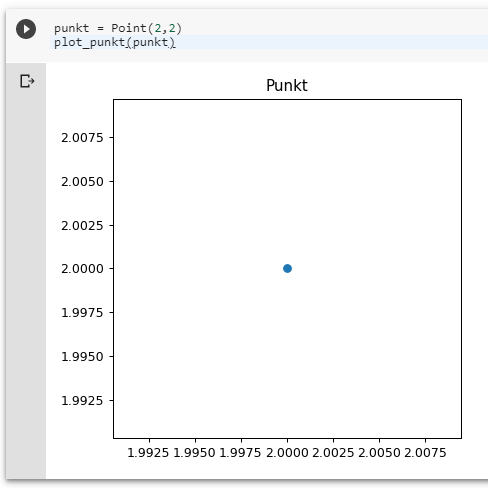
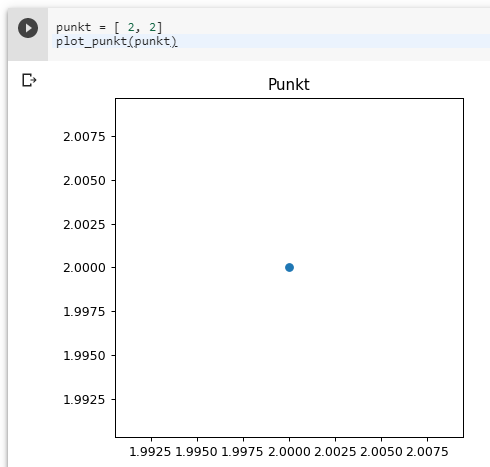
Små rettelser og nytt bilde

Changed region(s): [[0.0, 0.03, 1.0, 1.0], [0.584, 0.5396, 0.6148, 0.5996]]

diff --git a/Pythonkurs.md b/Pythonkurs.md
@@ -158,7 +158,7 @@ Et forsøk kan for eksempel være:
 
 [SyntaxError]:./images/Error.JPG
 
-Kommer direkte med en knapp til _Stack Overflow_ (fungerer ikke som den skal akkurat nå?)
+Kommer direkte med en knapp til _Stack Overflow_ (Gjør Googlesøk på feilen)
 
 Enkelt vist ved første resultat (Google Syntax Erroren). Slike feilmedlinger vil komme dersom cellen krasjer av en eller annen grunn. Det betyr at en tom output ikke nødvendigvis betyr at koden ikke fungerte.
 
@@ -862,6 +862,8 @@ print(sum)
 </p>
 </details>
 
+---
+
 <div style="page-break-after: always;"></div>
 
 ## Geometri
@@ -932,7 +934,7 @@ def plot_polygon(linje):
 Et punkt har en x-koordinat og en y-koordinat. Vi kan dermed se på et punkt som en liste med to elementer
 
 ```python
-punkt = [2, 2]
+punkt = [ 2, 2]
 ```
 
 Vi har lagd klar noen funksjoner for å enkelt plotte dataene.
@@ -945,7 +947,7 @@ Du vil nå få opp en graf tilsvarende denne:
 
 ![Punkt]
 
-[Punkt]: ./images/punkt.png
+[Punkt]: ./images/punkt.PNG
 
 Det er mulig å legge inn flere punkt i samme graf. Å bruke `plot_punkt()` for hvert enkelt punkt vil resultere i en advarsel, og er veldig lite praktisk.
 
@@ -1000,8 +1002,8 @@ plot_punkter(punkter)
 Finn distansen mellom punktene
 
 ```python
-Punkt1 = [3, 2]
-Punkt2 = [5, 7]
+Punkt1 = [ 3, 2]
+Punkt2 = [ 5, 7]
 ```
 
 ved hjelp av Pytagoras. _Tips: Bruk `import math` og `math.sqrt()` for å finne roten_
@@ -1012,8 +1014,8 @@ ved hjelp av Pytagoras. _Tips: Bruk `import math` og `math.sqrt()` for å finne 
 ```python
 import math
 
-Punkt1 = [3, 2]
-Punkt2 = [5, 7]
+Punkt1 = [ 3, 2]
+Punkt2 = [ 5, 7]
 
 distanse = math.sqrt((Punkt1[0] - Punkt2[0]) ** 2 + (Punkt1[1] - Punkt2[1]) ** 2)
 
@@ -1311,13 +1313,13 @@ m
 
 **NB!** _Husk å importere folium før du går igang med oppgavene._
 
-#### Oppgave 4.2.1
+#### Oppgave 4.1
 
-Bruk en bredde- og lengdegraden som du fant til å opprette et nytt kart og vis det i notebooken. Sett eget zoomnivå og basemap.
+Bruk en bredde- og lengdegraden som du fant med `folium.LatLngPopup().add_to(m)` til å opprette et nytt kart og vis det i notebooken. Sett eget zoomnivå og velg et basemap som du liker.
 
 Bonus: Lag egen basemap-velger ved å legge til flere basemaps med `folium.TileLayer(SETT INN BASEMAP HER).add_to(m)` og `folium.LayerControl().add_to(m)`
 
-<details><summary>Løsning Oppgave 4.2.1</summary>
+<details><summary>Løsning Oppgave 4.1</summary>
 <p>
 
 ```python
@@ -1383,11 +1385,11 @@ print(koordinater)
 
 På denne måten kan vi enkelt plotte punktene i et kart ved en senere anledning.
 
-#### Oppgave 4.1.1
+#### Oppgave 4.2.1
 
 Finn koordinatene til en adresse i Norge ved å bruke geokoding. Opprett deretter et kart med koordinatene som ble funnet. Verifiser at det var adressen du lette etter ved å se i kartet.
 
-<details><summary>Løsning Oppgave 4.1.1</summary>
+<details><summary>Løsning Oppgave 4.2.1</summary>
 <p>
 
 ```python
@@ -1408,13 +1410,11 @@ _Husk a tilpasse zoomnivået ditt basert på hva du søkte på_
 </p>
 </details>
 
-#### Oppgave 4.1.2
-
-
+#### Oppgave 4.2.2
 
 Bruk en _**input()**_ funksjon slik at man kan skrive inn et sted eller en adresse. Bruk geokoderen med det som du har oppgitt i input. Opprett deretter et kart med koordinatene fra geokoderen.
 
-<details><summary>Løsning Oppgave 4.1.2</summary>
+<details><summary>Løsning Oppgave 4.2.2</summary>
 <p>
 
 ```python
@@ -1434,8 +1434,6 @@ m
 
 </p>
 </details>
-
-TODO Oppgave med forløkke
 
 ---
 
@@ -1650,9 +1648,11 @@ m
 
 ---
 
-**EKSTRA HVIS TID**
+_**EKSTRA HVIS TID**_
 
-Vise GeoJSON med Folium. Kan enten hente GeoJSON fra fil eller bruke direkte som tekststreng. En GeoJSON kan også komme fra en url.
+1. Lag din egen dynamiske kartapplikasjon ved hjelp av Notebooks og Folium.
+
+2. Vise GeoJSON med Folium. Kan enten hente GeoJSON fra fil eller bruke direkte som tekststreng. En GeoJSON kan også komme fra en url.
 
 _NB! I GeoJSON brukes koordinater i omvendt rekkefølge (altså [lengdegrad, breddegrad])_
 
@@ -1696,7 +1696,5 @@ folium.GeoJson("""{
 m
 ```
 
----
-
-Plotting av linjer:
+3. Plotting av linjer i Folium:
 <https://deparkes.co.uk/2016/06/03/plot-lines-in-folium/>
